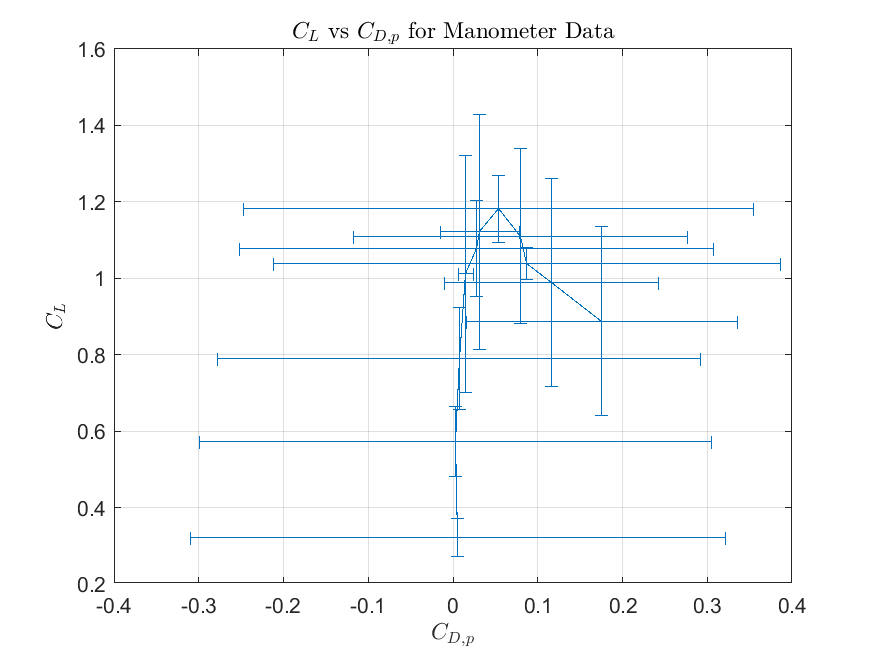
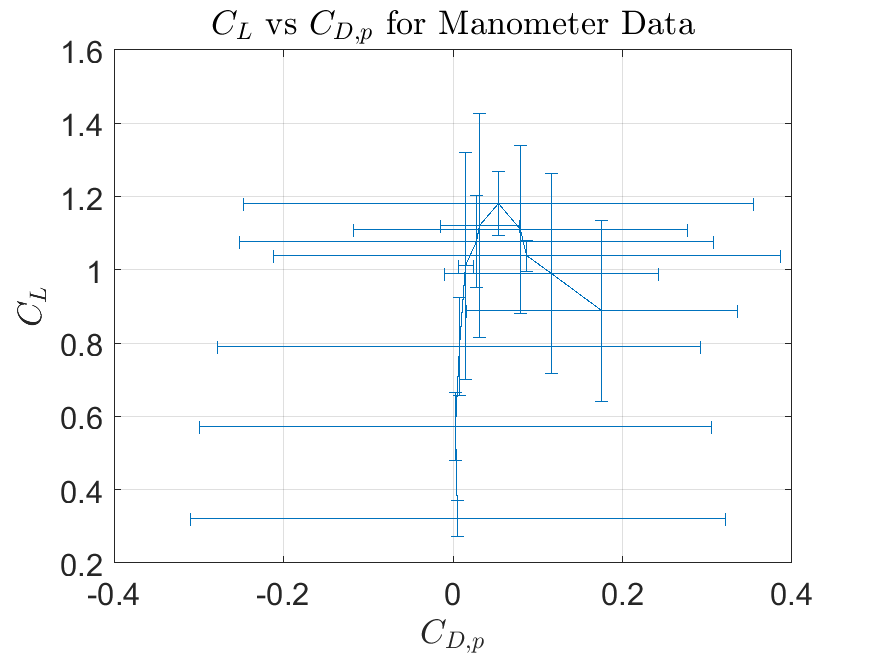
MAIN: Increase plot text.

diff --git a/Code/coefficient_plots.m b/Code/coefficient_plots.m
@@ -27,6 +27,7 @@ ylabel('Coefficients')
 title('$C_L$, $C_{D,p}$, and $C_M$ vs $\alpha$ for Scanivalve Data', 'interpreter', 'latex')
 legend('$C_L$', '$C_{D,p}$', '$C_M$', 'interpreter', 'latex')
 grid on
+set(gca, 'FontSize', 15)
 saveas(gcf,'scanivalve_cl_cd_cm.png')
 
 % Plot cL vs cD.
@@ -36,6 +37,7 @@ xlabel('$C_{D,p}$', "interpreter", "latex")
 ylabel('$C_L$', "interpreter", "latex")
 title('$C_L$ vs $C_{D,p}$ for Scanivalve Data', 'interpreter', 'latex')
 grid on
+set(gca, 'FontSize', 15)
 saveas(gcf,'scanivalve_cl_vs_cd.png')
 
 % Import manometer data.
@@ -65,6 +67,7 @@ ylabel('Coefficients')
 title('$C_L$, $C_{D,p}$, and $C_M$ vs $\alpha$ for Manometer Data', 'interpreter', 'latex')
 legend('$C_L$', '$C_{D,p}$', '$C_M$', 'interpreter', 'latex')
 grid on
+set(gca, 'FontSize', 15)
 saveas(gcf,'manometer_cl_cd_cm.png')
 
 % Plot cL vs cD.
@@ -74,4 +77,5 @@ xlabel('$C_{D,p}$', "interpreter", "latex")
 ylabel('$C_L$', "interpreter", "latex")
 title('$C_L$ vs $C_{D,p}$ for Manometer Data', 'interpreter', 'latex')
 grid on
+set(gca, 'FontSize', 15)
 saveas(gcf,'manometer_cl_vs_cd.png')
